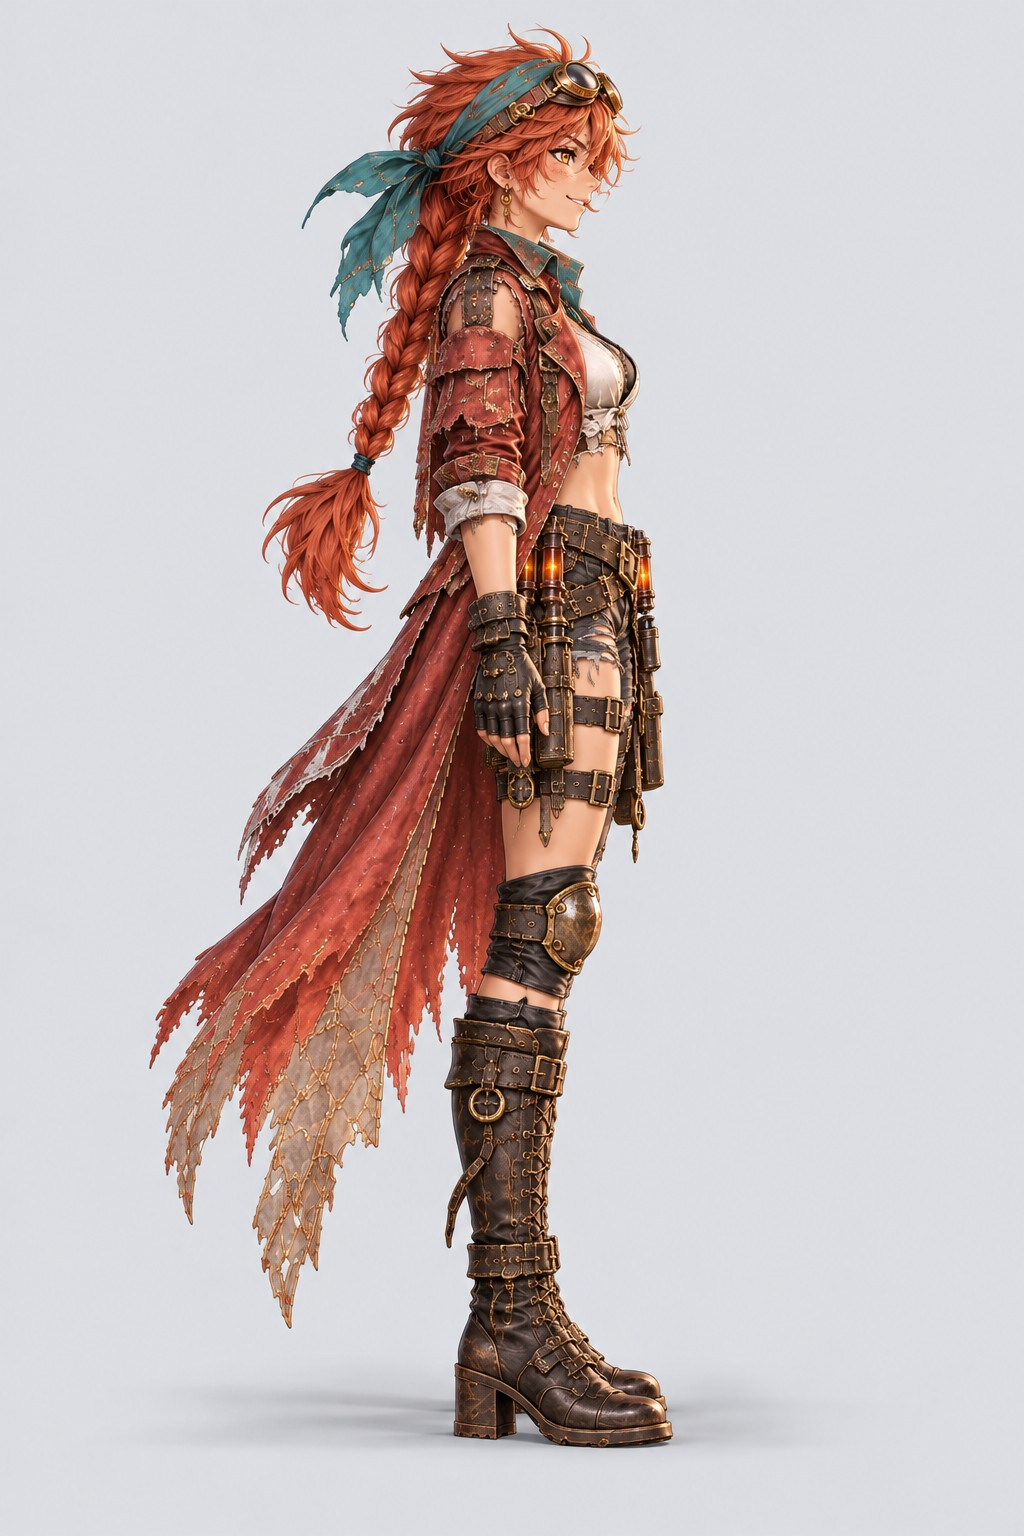
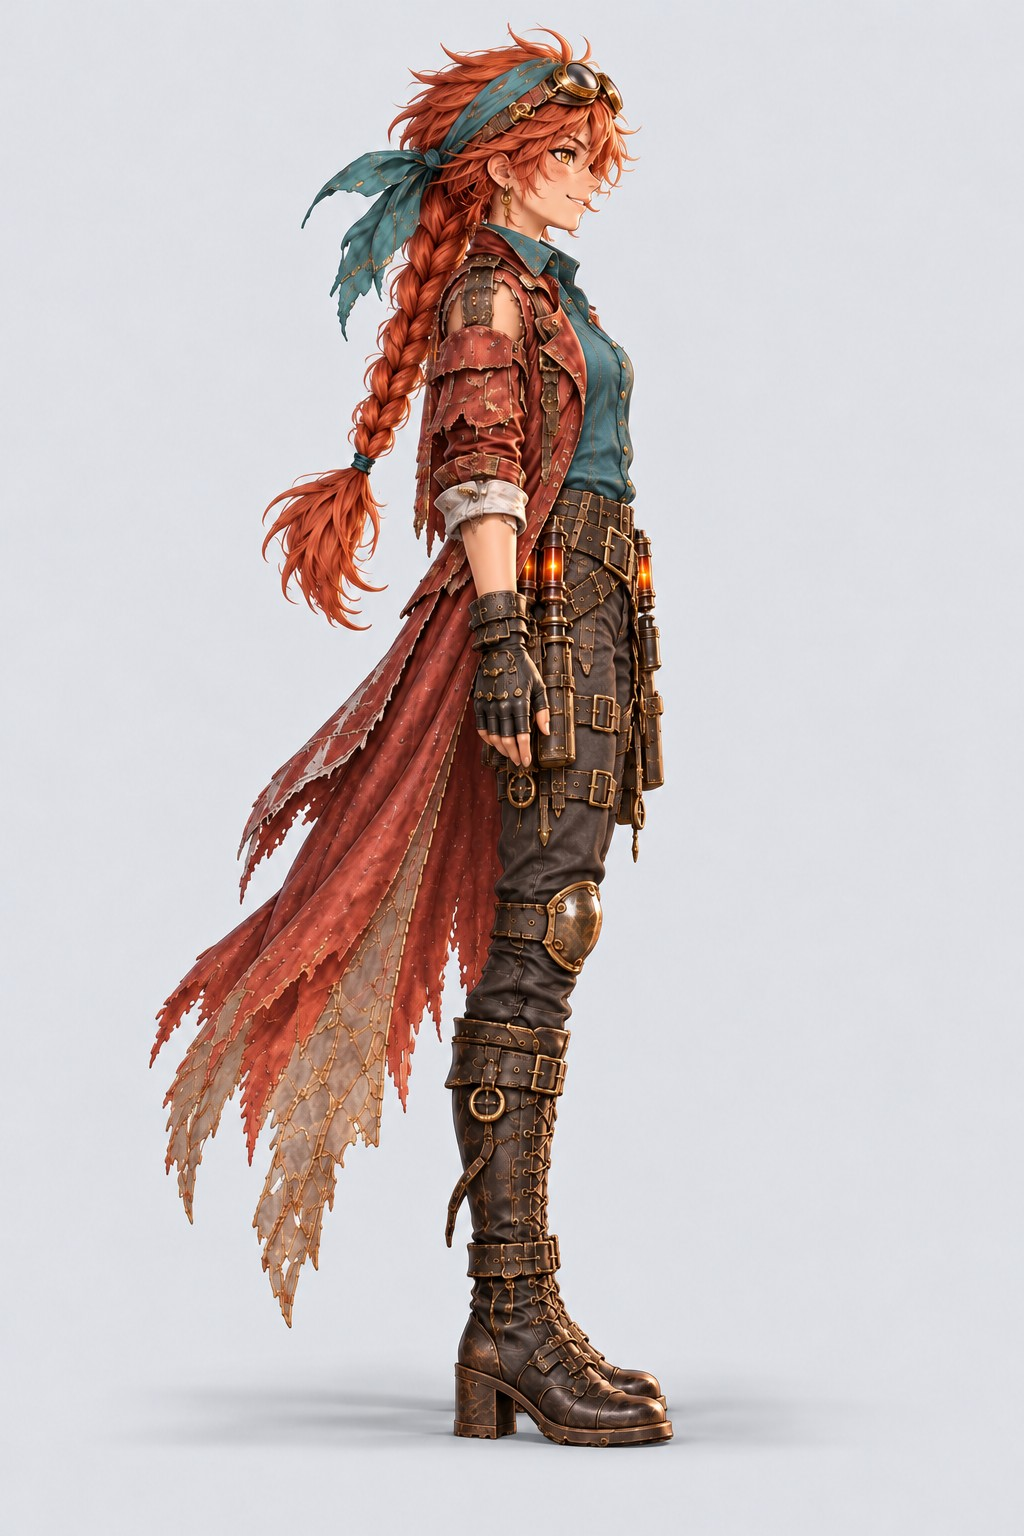
Wave 10, Section D: Wren's video references and the film first frames
art/video-refs/ally_gunner/front, left and right edited in place
(1024x1536, JPEG 90, under 700 KB), the front first and then passed as the
reference for both profiles. frames/story_deck, story_fall and
story_crystal_remade re-exported from the new paintings (whole 1536x1024
at JPEG 92, and the middle 16:9 at each existing file's size).
story_fall_first.jpg and story_ram_first.jpg untouched. story_fall is now
retired by the new intro storyboard; kept as made (Notes).

diff --git a/art/waves/wave-10-wren-dressed.md b/art/waves/wave-10-wren-dressed.md
@@ -79,11 +79,11 @@ Each of these is an edit of the picture at the same path, changing Wren's clothe
 
 ## Section D: For the parent's films
 
-### ☐ `art/video-refs/ally_gunner/`: front, left and right
+### ☑ `art/video-refs/ally_gunner/`: front, left and right
 
 Wave 06's character references for the video tool (`wave-06-ending.md`, Section A): 1024×1536, JPEG quality 90, at most 700 KB each. Edit each of the three in place, same pose, size and plain light-gray background. Do the front first, then pass the new front as a reference for both profiles, so all three match.
 
-### ☐ `art/video-refs/frames/`: the three cards' first frames
+### ☑ `art/video-refs/frames/`: the three cards' first frames
 
 Export each of Section C's three film cards twice, overwriting the files that are there:
 - `<id>.jpg`: the whole painting, 1536×1024, JPEG quality 92.
@@ -105,3 +105,6 @@ Commit, and write `art/review/wave-10.md` with every asset shown before and afte
 ## Notes
 
 (Add a line here for anything flagged or skipped.)
+
+- 2026-10-14: every edit was attempt 1 and passed the checks (canvas and cells unchanged, transparent corners and cell edges, feet within 2 px of the old cells, nothing outside each big picture's crop around Wren changed). Battle cells 2 (cast) and 5 (victory) and field cell 2 (talk) came back drawn larger and were scaled back to the old height before pasting. The walk's frame-to-frame movement matches the old walk within 2 px, so `"aligned"` stays. Nothing flagged. See `art/review/wave-10.md`.
+- 2026-10-14: `scenes/story_fall.webp` and its two frame exports (`frames/story_fall.jpg`, `frames/story_fall-16x9.jpg`) were already done when the parent's new intro storyboard retired that painting, so they're kept as made, not skipped.
